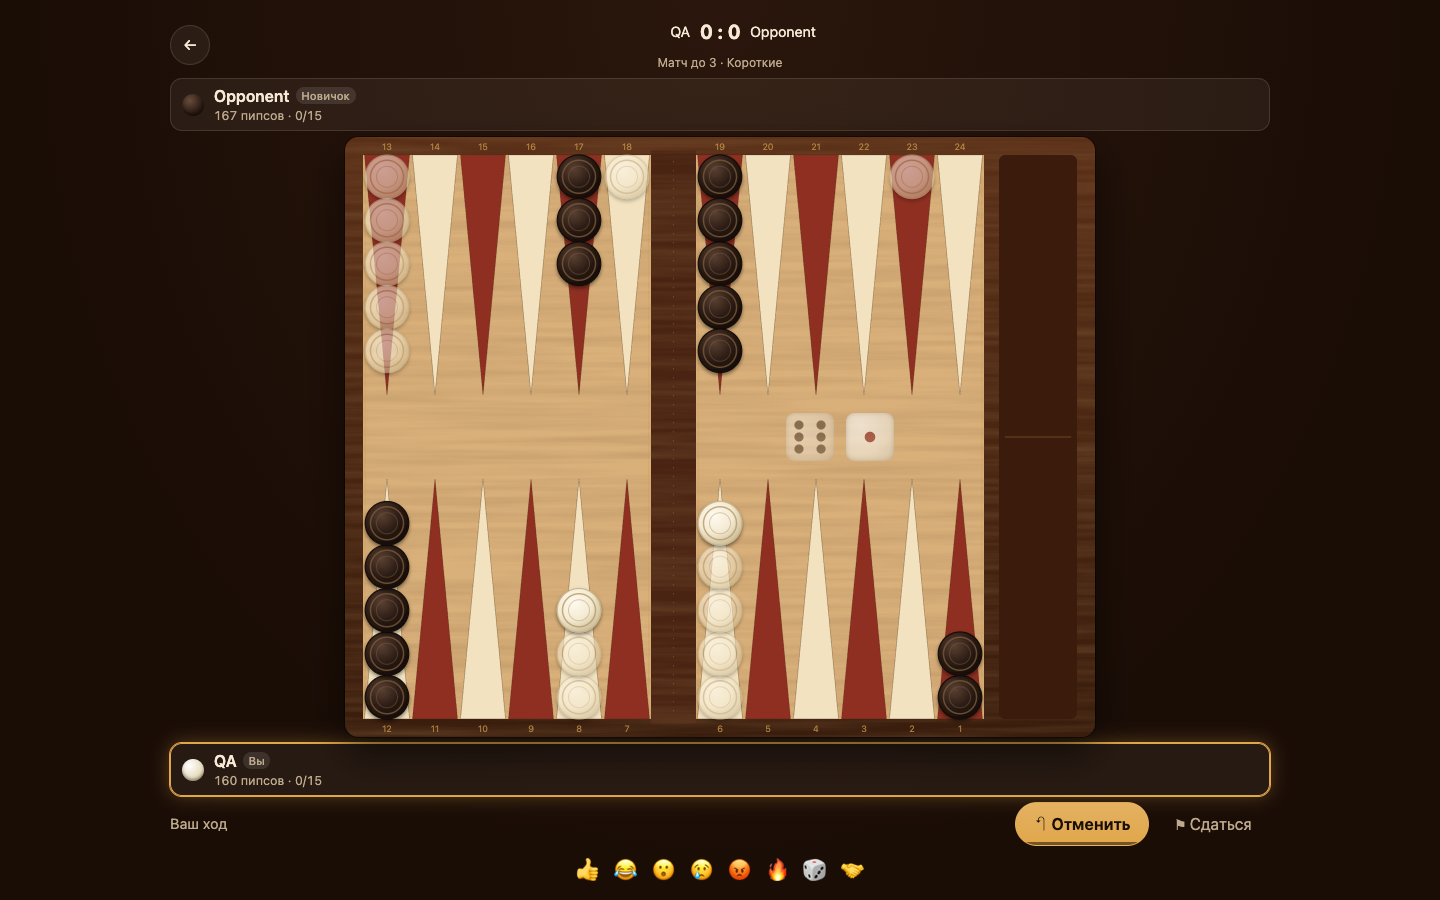
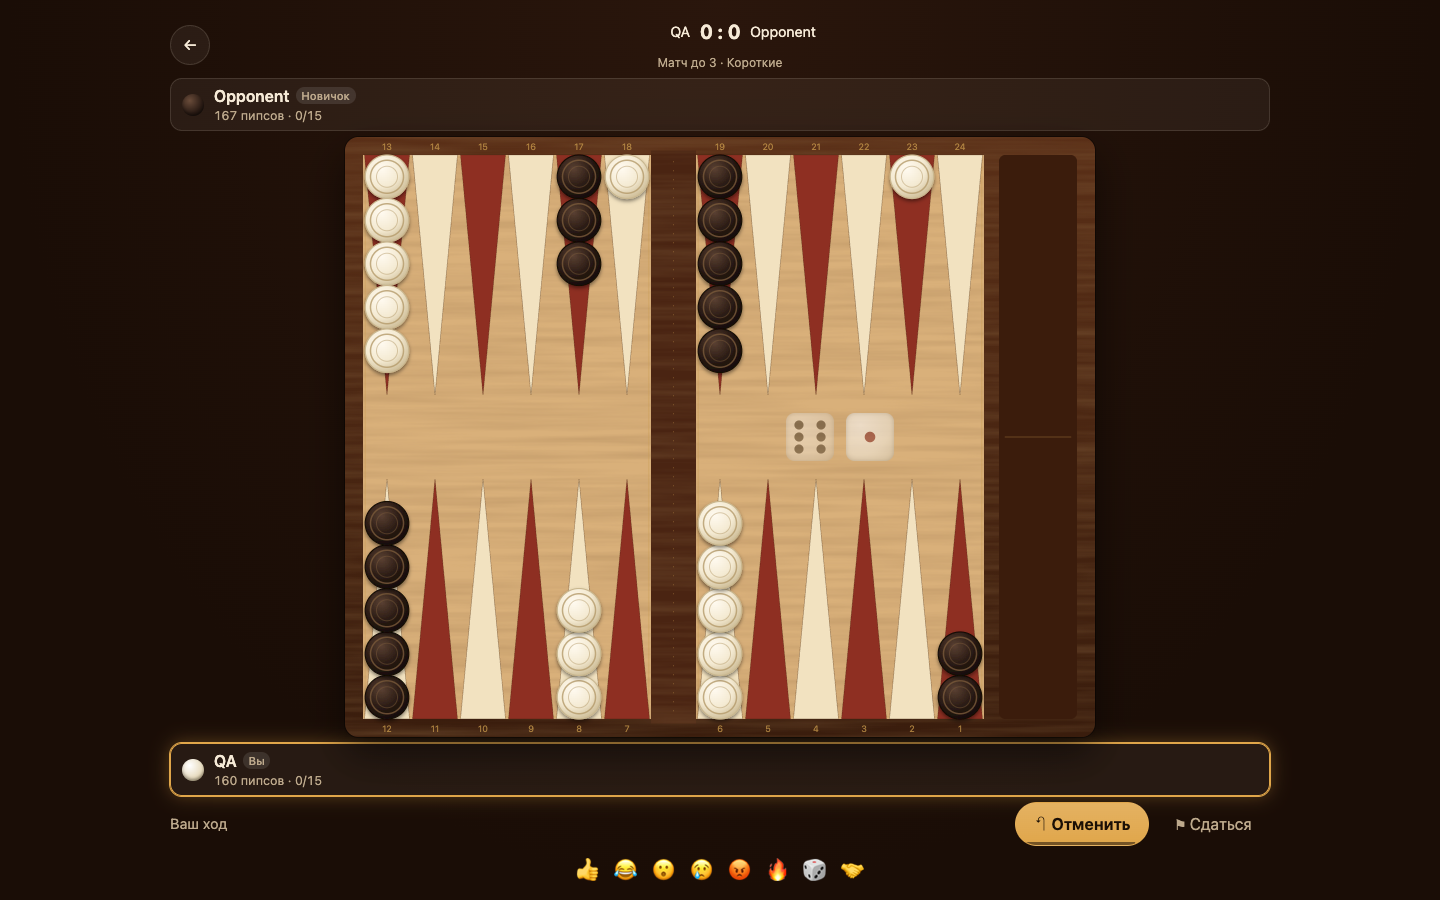
fix(web): recover roll flow and preserve rejoin and board state

Changed region(s): [[0.25, 0.1556, 0.2812, 0.4356], [0.4688, 0.6222, 0.5312, 0.6844], [0.5938, 0.1556, 0.6562, 0.2178]]

diff --git a/apps/web/src/components/Board.tsx b/apps/web/src/components/Board.tsx
@@ -30,6 +30,7 @@ export interface BoardProps {
   moveMs: number;
   /** Display locations whose top checker may move now. */
   movable: Set<Loc>;
+  dimMovable: Set<Loc>;
   selected: Loc | null;
   targets: Set<Loc>;
   lastMove: Set<Loc>;
@@ -143,7 +144,7 @@ interface CheckerRender {
 
 export function BoardView(p: BoardProps) {
   const g = useMemo(() => geom(p.vertical ? 660 : 800), [p.vertical]);
-  const { BOTTOM, MID_Y, VB_H, checkerPos, offPos, barPos, locAt } = g;
+  const { TOP, BOTTOM, MID_Y, VB_H, checkerPos, offPos, barPos, locAt } = g;
   const th = THEMES[p.theme];
   const uid = 'b' + p.theme;
   const idsRef = useRef<[Map<Loc, number[]> | null, Map<Loc, number[]> | null]>([null, null]);
@@ -179,7 +180,8 @@ export function BoardView(p: BoardProps) {
     if (moved.size) lastMovedRef.current = moved;
     // Draw recently moved checkers last so they fly above the others.
     const lm = lastMovedRef.current;
-    out.sort((a, b) => Number(lm.has(a.id)) - Number(lm.has(b.id)) || a.id - b.id);
+    const raised = new Set(out.filter((c) => lm.has(c.id)).map((c) => `${c.color}:${c.loc}`));
+    out.sort((a, b) => Number(raised.has(`${a.color}:${a.loc}`)) - Number(raised.has(`${b.color}:${b.loc}`)));
     return out;
   }, [p.board, p.viewer, p.variant, g]);
 
@@ -229,9 +231,6 @@ export function BoardView(p: BoardProps) {
     if (loc) p.onLocClick(loc);
   };
 
-  const dimSet = useRef(p.movable);
-  // Keep the legal movable set while a fragment is animating.
-  if (p.movable.size || p.targets.size) dimSet.current = p.movable;
   const ms = p.moveMs;
 
   return (
@@ -264,21 +263,15 @@ export function BoardView(p: BoardProps) {
       {[...(p.hints ? p.targets : [])].map((loc) => {
         if (loc === 'off') {
           return <g key="t-off" data-hint="target-off" pointerEvents="none">
-            <rect x={TRAY_X + 3} y={MID_Y + 4} width={TRAY_W - 6} height={BOTTOM - MID_Y - 7} rx="8" fill={th.hint.fill} fillOpacity="0.22" stroke={th.hint.edge} strokeWidth={HINT_EDGE_W} />
-            <rect x={TRAY_X + 3} y={MID_Y + 4} width={TRAY_W - 6} height={BOTTOM - MID_Y - 7} rx="8" fill="none" stroke={th.hint.fill} strokeWidth={HINT_FILL_W} />
+            <rect x={TRAY_X + 3} y={p.mover === p.viewer ? MID_Y + 4 : TOP + 3} width={TRAY_W - 6} height={BOTTOM - MID_Y - 7} rx="8" fill={th.hint.fill} fillOpacity="0.22" stroke={th.hint.edge} strokeWidth={HINT_EDGE_W} />
+            <rect x={TRAY_X + 3} y={p.mover === p.viewer ? MID_Y + 4 : TOP + 3} width={TRAY_W - 6} height={BOTTOM - MID_Y - 7} rx="8" fill="none" stroke={th.hint.fill} strokeWidth={HINT_FILL_W} />
           </g>;
         }
         const slot = Number(loc.slice(1));
-        const n = checkers.filter((c) => c.loc === loc).length;
-        const pos = checkerPos(slot, n, n + 1);
-        return (
-          <g key={'t' + loc} data-hint="target" pointerEvents="none">
-            <path d={pointPath(slot, g)} fill={th.hint.fill} fillOpacity="0.22" stroke={th.hint.edge} strokeWidth={HINT_EDGE_W} />
-            <path d={pointPath(slot, g)} fill="none" stroke={th.hint.fill} strokeWidth={HINT_FILL_W} />
-            <circle cx={pos.x} cy={pos.y} r={R - 3} fill={`url(#${uid}-ck-${p.mover === 0 ? 'white' : 'black'})`} fillOpacity="0.45" stroke={th.hint.edge} strokeWidth={HINT_EDGE_W} />
-            <circle cx={pos.x} cy={pos.y} r={R - 3} fill="none" stroke={th.hint.fill} strokeWidth={HINT_FILL_W} />
-          </g>
-        );
+        return <g key={'point-' + loc} pointerEvents="none">
+          <path d={pointPath(slot, g)} fill={th.hint.fill} fillOpacity="0.22" stroke={th.hint.edge} strokeWidth={HINT_EDGE_W} />
+          <path d={pointPath(slot, g)} fill="none" stroke={th.hint.fill} strokeWidth={HINT_FILL_W} />
+        </g>;
       })}
 
       {/* checkers */}
@@ -296,7 +289,7 @@ export function BoardView(p: BoardProps) {
             data-loc={c.loc}
             data-color={c.color}
             className={'ck' + (isGhost ? ' dragging' : '')}
-            style={{ opacity: p.hints && p.mover === c.color && dimSet.current.size > 0 && !(c.top && dimSet.current.has(c.loc)) ? th.dim : 1, transform: `translate(${x}px, ${y}px)`, transitionDuration: isGhost ? '0ms' : `${ms}ms` }}
+            style={{ opacity: p.hints && p.mover === c.color && p.dimMovable.size > 0 && !(c.top && p.dimMovable.has(c.loc)) ? th.dim : 1, transform: `translate(${x}px, ${y}px)`, transitionDuration: isGhost ? '0ms' : `${ms}ms` }}
             pointerEvents="none"
           >
             {c.slab ? (
@@ -321,6 +314,15 @@ export function BoardView(p: BoardProps) {
             )}
           </g>
         );
+      })}
+      {/* Landing ghosts sit above occupied stacks and replace an opposing blot. */}
+      {[...(p.hints ? p.targets : [])].filter((loc) => loc.startsWith('s')).map((loc) => {
+        const n = checkers.filter((c) => c.loc === loc && c.color === p.mover).length;
+        const pos = checkerPos(Number(loc.slice(1)), n, n + 1);
+        return <g key={'ghost-' + loc} data-hint="target" data-target={loc} pointerEvents="none">
+          <circle cx={pos.x} cy={pos.y} r={R - 3} fill={`url(#${uid}-ck-${p.mover === 0 ? 'white' : 'black'})`} fillOpacity="0.45" stroke={th.hint.edge} strokeWidth={HINT_EDGE_W} />
+          <circle cx={pos.x} cy={pos.y} r={R - 3} fill="none" stroke={th.hint.fill} strokeWidth={HINT_FILL_W} />
+        </g>;
       })}
       </g>
     </svg>

diff --git a/apps/web/src/screens/Room.tsx b/apps/web/src/screens/Room.tsx
@@ -38,7 +38,7 @@ export function RoomScreen({ id, nav }: { id: string; nav: Nav }) {
   const noSeat = full && !info?.seatsOffline;
   const rejoin = full && !!info?.seatsOffline;
   const ready = info?.exists && !noSeat && (hasToken || (!info.hasPassword && !rejoin) || password !== null);
-  const helloName = useSettings((s) => s.name) || (rejoin && info?.offlineName) || T.you;
+  const helloName = useSettings((s) => s.name) || (rejoin && info?.offlineName) || localStorage.getItem('nardy.name.' + id) || T.you;
 
   useEffect(() => {
     if (!ready || fatal) return;
@@ -75,7 +75,7 @@ export function RoomScreen({ id, nav }: { id: string; nav: Nav }) {
       <button className="link" onClick={() => nav('/online')}>← {T.back}</button>
       <h2>{T.rejoinAs} {info.offlineName}</h2>
       {fatal === 'bad_password' && <p className="error">{T.badPassword}</p>}
-      <form onSubmit={(e) => { e.preventDefault(); setFatal(null); setPassword(info.hasPassword ? pwInput : ''); }}>
+      <form onSubmit={(e) => { e.preventDefault(); localStorage.setItem('nardy.name.' + id, helloName); setFatal(null); setPassword(info.hasPassword ? pwInput : ''); }}>
         {info.hasPassword && <label className="field">
           <span>{T.password}</span>
           <input type="password" autoFocus value={pwInput} onChange={(e) => setPwInput(e.target.value)} />

diff --git a/apps/web/src/screens/Game.tsx b/apps/web/src/screens/Game.tsx
@@ -170,6 +170,9 @@ export function GameScreen({ onExit }: { onExit: () => void }) {
     return s;
   }, [legal, canInteract, mover, viewer, variant]);
 
+  const dimSet = useRef(new Set<Loc>());
+  if (!busy) dimSet.current = movable;
+
   // Auto-select when only one checker can move.
   useEffect(() => {
     if (movable.size === 1 && !selected) setSelected([...movable][0]);
@@ -243,10 +246,10 @@ export function GameScreen({ onExit }: { onExit: () => void }) {
 
   const DOUBLE_MS = 2000;
   useEffect(() => {
-    if (!rollActor || !st.autoRoll || doubled) return;
+    if (!rollActor || !st.autoRoll || doubled || g.conn !== 'open') return;
     const id = setTimeout(doRoll, mayDouble ? DOUBLE_MS : 450);
     return () => clearTimeout(id);
-  }, [rollActor, st.autoRoll, mayDouble, doRoll, m.seq, doubled]);
+  }, [rollActor, st.autoRoll, mayDouble, doRoll, m.seq, doubled, g.conn]);
 
   const [shaking, setShaking] = useState(false);
   const [impulse, setImpulse] = useState(0);
@@ -468,6 +471,7 @@ export function GameScreen({ onExit }: { onExit: () => void }) {
           theme={st.theme}
           moveMs={mMs}
           movable={movable}
+          dimMovable={dimSet.current}
           hints={st.hints}
           selected={selected}
           targets={targets}
